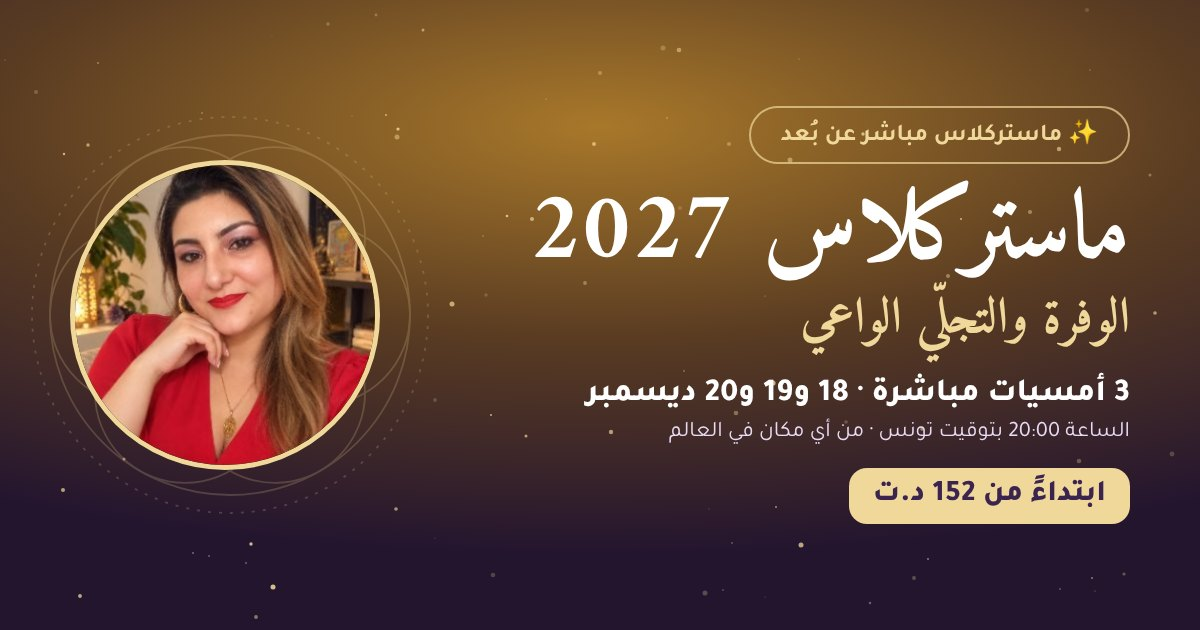
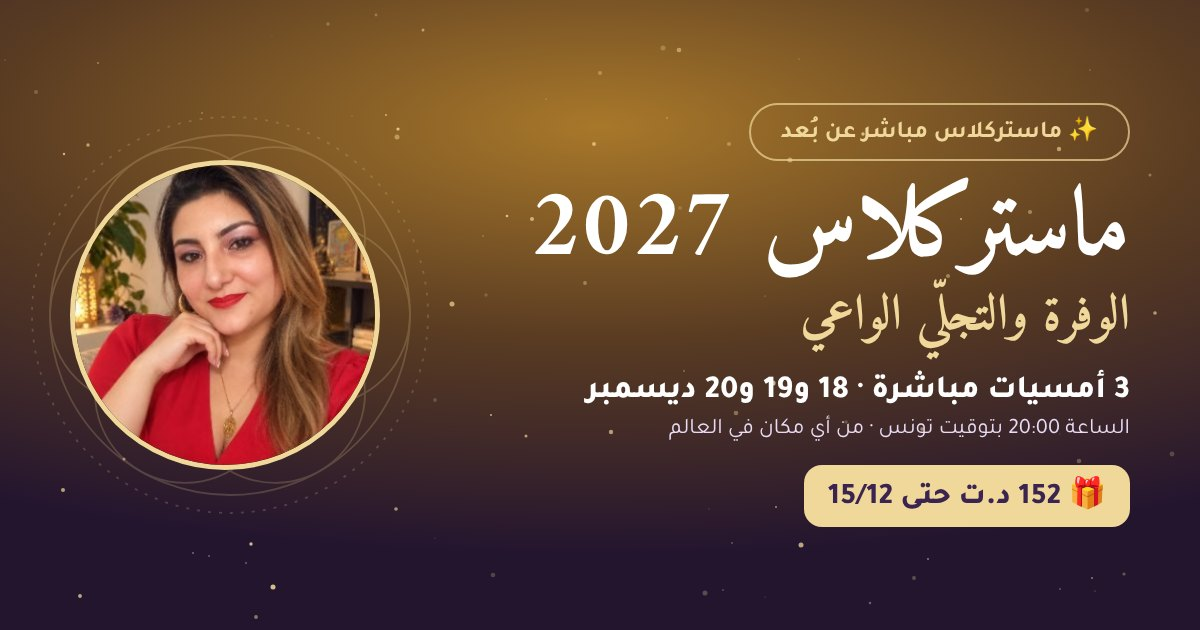
Masterclass promo images: early-bird price 152 DT until 15/12
Claude-Session: https://claude.ai/code/session_01ReMr7DWTXfkfywxMdPP7wi

diff --git a/seo/build-promo.js b/seo/build-promo.js
@@ -12,11 +12,11 @@ const T = {
   ar: { dir: 'rtl', kicker: 'ماستركلاس مباشر عن بُعد', t1: 'ماستركلاس 2027', t2: 'الوفرة والتجلّي الواعي',
     lines: ['اختم 2026 بسلام', 'حرّر ما أثقلك', 'افتح باب الوفرة', 'ضع نواياك لعام 2027 بوعي'],
     when: '3 أمسيات مباشرة · 18 و19 و20 ديسمبر', time: 'الساعة 20:00 بتوقيت تونس · من أي مكان في العالم',
-    price: 'ابتداءً من 152 د.ت', cta: 'احجز مقعدك', by: 'مع راوية غربال', seats: 'المقاعد محدودة', url: 'centreholistique.net/masterclass-2027' },
+    price: '🎁 152 د.ت حتى 15/12', cta: 'احجز مقعدك', by: 'مع راوية غربال', seats: 'المقاعد محدودة', url: 'centreholistique.net/masterclass-2027' },
   fr: { dir: 'ltr', kicker: 'Masterclass en ligne en direct', t1: 'Masterclass 2027', t2: 'Abondance & Manifestation consciente',
     lines: ['Clôturez 2026 en paix', 'Libérez ce qui vous pèse', 'Ouvrez la porte de l’abondance', 'Posez vos intentions pour 2027'],
     when: '3 soirées en direct · 18, 19 et 20 décembre', time: '20 h heure de Tunisie · partout dans le monde',
-    price: 'À partir de 152 DT', cta: 'Réservez votre place', by: 'avec Rawia Ghorbel', seats: 'Places limitées', url: 'centreholistique.net/masterclass-2027' }
+    price: '🎁 152 DT · 15/12', cta: 'Réservez votre place', by: 'avec Rawia Ghorbel', seats: 'Places limitées', url: 'centreholistique.net/masterclass-2027' }
 };
 function seed(r, stroke, op) {
   const c = [[0, 0]].concat([...Array(6)].map((_, i) => [r * Math.cos(i * Math.PI / 3), r * Math.sin(i * Math.PI / 3)]));
@@ -29,7 +29,7 @@ const BASE = (w, h) => `html,body{margin:0;width:${w}px;height:${h}px;overflow:h
 .kicker{display:inline-block;border:2px solid rgba(240,215,154,.7);color:#f0d79a;border-radius:999px;padding:10px 30px;font-weight:700}
 .t1{color:#fff;line-height:1.05;margin:0}.t2{color:#f0d79a;line-height:1.2;margin:0}
 .lines{list-style:none;padding:0;margin:0}.lines li{color:#f3eafc}.lines li::before{content:"✦";color:#f0d79a;margin-inline-end:14px}
-.when{font-weight:800;color:#fff}.time{color:#e8dcf5}.price{display:inline-block;background:#f0d79a;color:#3b2550;font-weight:800;border-radius:18px}
+.when{font-weight:800;color:#fff}.time{color:#e8dcf5}.price{display:inline-block;white-space:nowrap;background:#f0d79a;color:#3b2550;font-weight:800;border-radius:18px}
 .cta{display:inline-block;border:3px solid #fff;color:#fff;font-weight:800;border-radius:999px}.portrait{border-radius:50%;object-fit:cover;border:5px solid #f0d79a}
 .by{color:#f0d79a;font-weight:700}.url{color:#e8dcf5;letter-spacing:.02em}.seats{color:#f0d79a;font-weight:700}`;
 
@@ -40,7 +40,7 @@ function post(l) {
   .kicker{font-size:30px}.t1{font-size:${l === 'ar' ? 122 : 112}px;margin-top:34px}.t2{font-size:${l === 'ar' ? 64 : 56}px;margin-top:10px}
   .lines{margin-top:46px;display:grid;gap:14px}.lines li{font-size:36px}
   .when{font-size:44px;margin-top:48px}.time{font-size:30px;margin-top:10px}
-  .row{display:flex;align-items:center;gap:28px;margin-top:44px}.portrait{width:150px;height:150px;box-shadow:0 0 40px rgba(240,215,154,.4)}.by{font-size:34px}
+  .row{display:flex;align-items:center;gap:28px;margin-top:44px}.portrait{width:150px;height:150px;box-shadow:0 0 40px rgba(240,215,154,.4)}.by{font-size:34px;white-space:nowrap}
   .price{font-size:40px;padding:16px 34px}.foot{position:absolute;bottom:0;left:0;right:0;display:flex;justify-content:space-between;align-items:center}
   .cta{font-size:32px;padding:16px 40px}.url{font-size:26px}</style></head><body class="${l}">
   <svg class="bg" viewBox="0 0 ${W} ${H}">${stars(120, W, H, 5)}<g transform="translate(${W / 2},${H * .43})">${seed(150, '#f0d79a', .16)}</g></svg>
